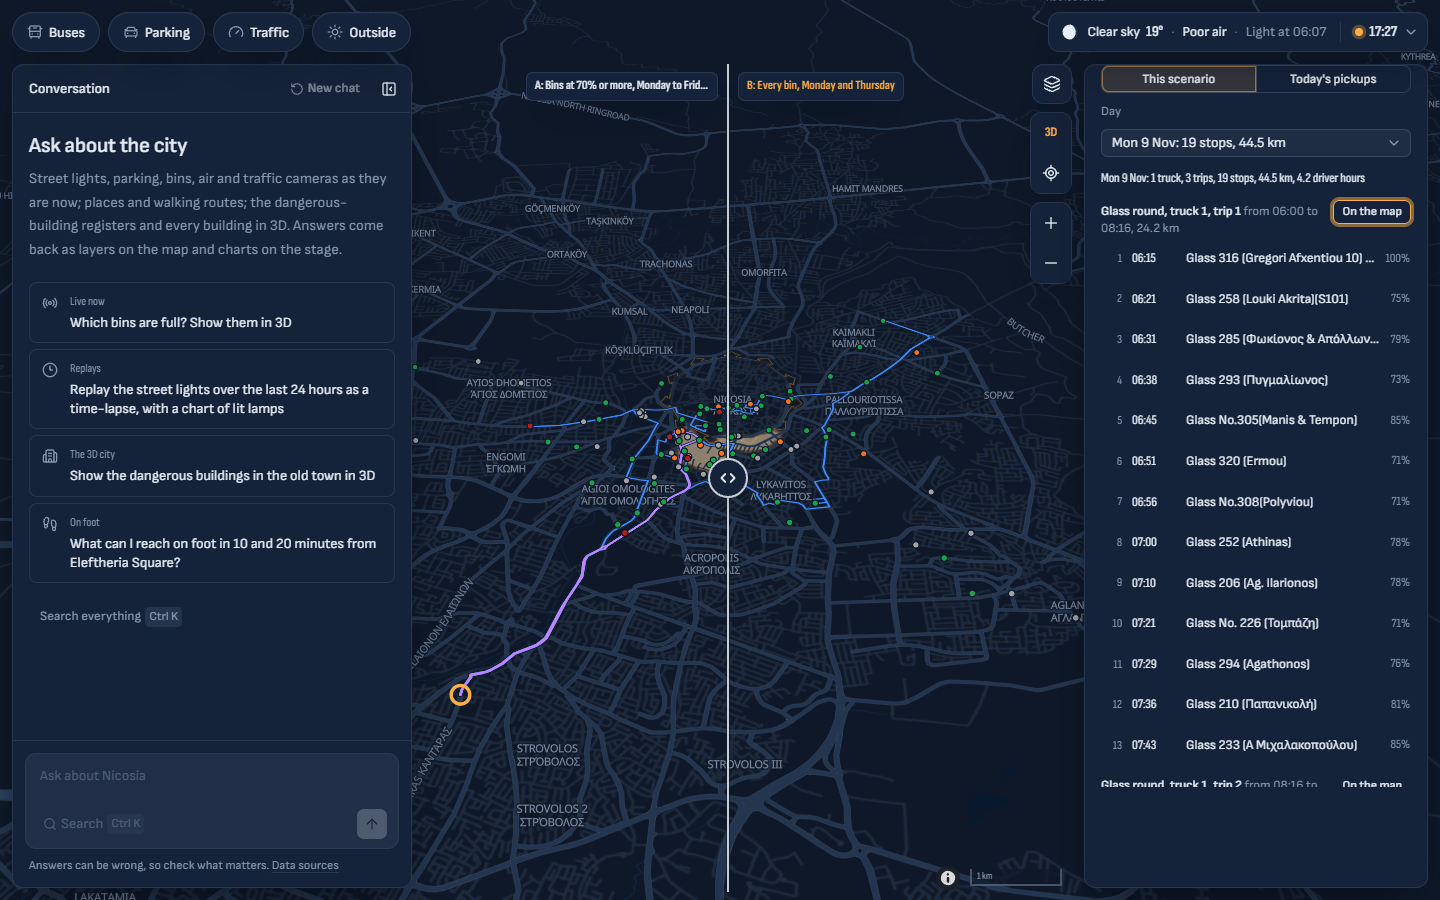
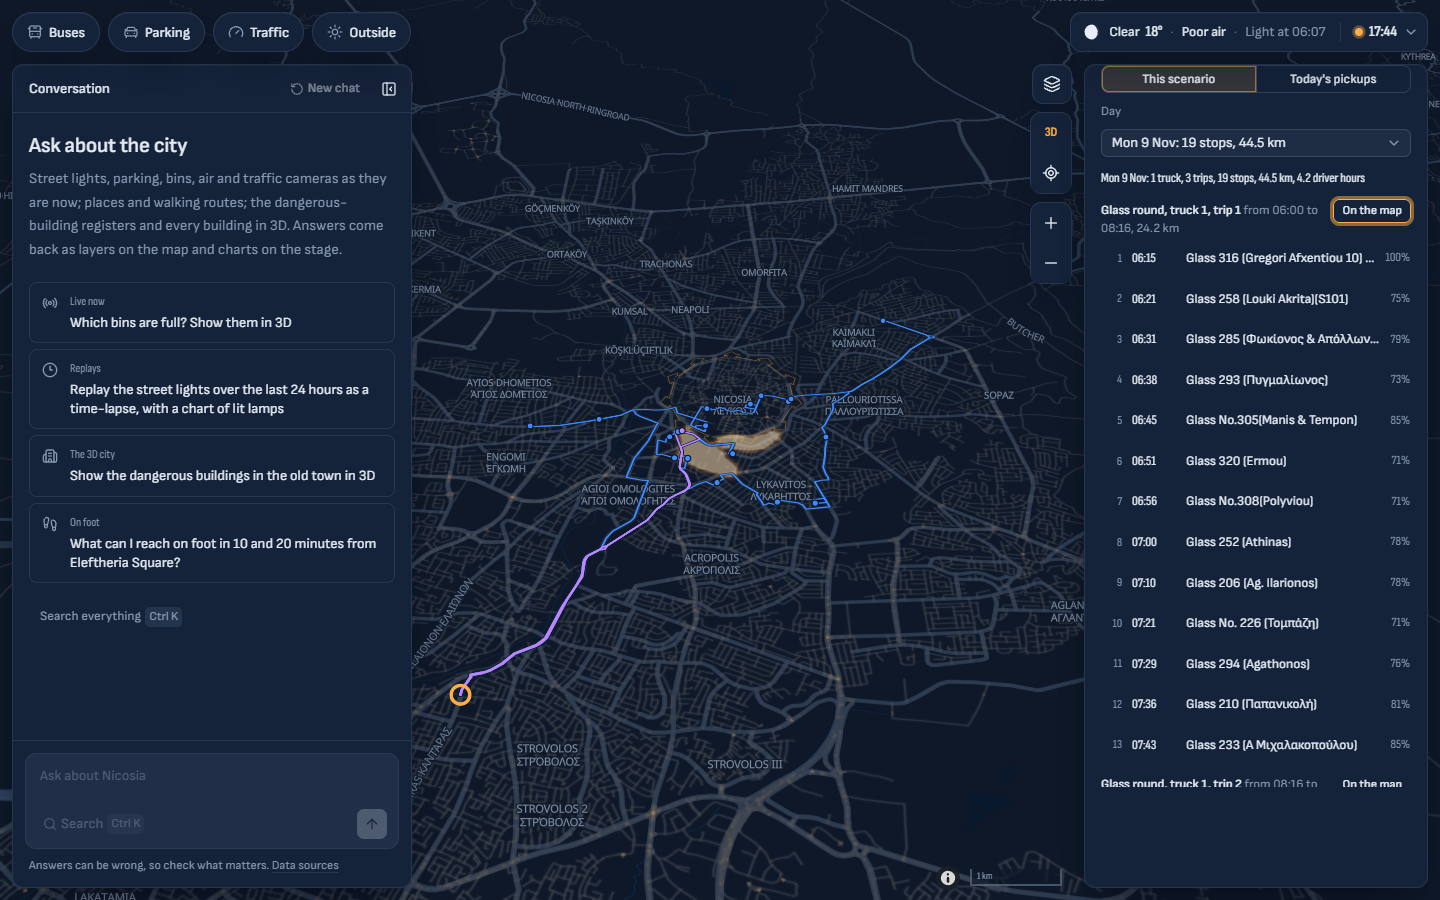
Show the busiest day's rounds as their own map view
The lab now draws an overlay on the run's side of the swipe only, judged by each feature's
first point, and every trip starts at the depot left of the swipe, so the route was hidden
again. The route is now a view of its own in the lab's map toggle: the day's trips on the
roads with their stops numbered in order ('n', as the chat's route style reads them), and a
trip's 'On the map' opens that view and flies to the trip.

diff --git a/chatbot/web/src/components/scenarios/waste-sections.tsx b/chatbot/web/src/components/scenarios/waste-sections.tsx
@@ -11,7 +11,7 @@ import { Field, FieldLabel } from "@/components/ui/field"
 import { Select, SelectContent, SelectItem, SelectTrigger, SelectValue } from "@/components/ui/select"
 import { ToggleGroup, ToggleGroupItem } from "@/components/ui/toggle-group"
 import { registerParamGroups, registerScenarioSection, type ScenarioRun } from "@/lib/registries/scenarios"
-import { flyToScenarioFeature } from "@/lib/scenarios/map"
+import { flyToScenarioFeature, showScenarioLayer } from "@/lib/scenarios/map"
 import { fmtNum } from "@/lib/scenarios/store"
 
 type Stop = { id: string; name: string; eta: string; level: number; load_m3: number }
@@ -93,7 +93,7 @@ function Rounds({ run, compare }: { run: ScenarioRun; compare: ScenarioRun | nul
         <>
           {!drawn && drawnLabel && (
             <p className="text-[12px] text-muted-foreground">
-              The map draws the rounds of {drawnLabel}, the busiest day; a stop here still flies to its bin.
+              The map's rounds view draws {drawnLabel}, the busiest day; a stop here still flies to its bin.
             </p>
           )}
           <DayView day={day} drawn={drawn} />
@@ -120,7 +120,7 @@ function DayView({ day, drawn }: { day: Day; drawn: boolean }) {
             {drawn && (
               <Button variant="ghost" size="xs" className="shrink-0"
                 aria-label={`Show trip ${t.n} on the map`}
-                onClick={() => flyToScenarioFeature(`trip-${day.date}-${t.n}`)}>
+                onClick={() => { showScenarioLayer("route"); flyToScenarioFeature(`trip-${day.date}-${t.n}`) }}>
                 On the map
               </Button>
             )}

diff --git a/tests/test_waste_scenario.py b/tests/test_waste_scenario.py
@@ -394,8 +394,11 @@ def test_a_run_gives_kpis_with_ranges_layers_series_and_a_backtest(tmp_path, off
     assert next(f for f in feats if f["properties"]["id"] == "YW1056")["properties"]["state"] == "never_emptied"
     route = res.layers["route"]
     assert route["meta"]["geometry"] == "route" and route["meta"]["chat"] is True
-    assert route["meta"]["variant"] is None and route["meta"]["show"] is True  # over both sides
-    assert all(f["geometry"]["type"] == "LineString" for f in route["features"])
+    assert route["meta"]["variant"] is None and not route["meta"].get("show")  # a view of its own
+    lines = [f for f in route["features"] if f["geometry"]["type"] == "LineString"]
+    stops = [f for f in route["features"] if f["geometry"]["type"] == "Point"]
+    assert lines and stops and {f["properties"]["id"] for f in stops} <= {f["properties"]["id"] for f in feats}
+    assert all(f["properties"]["stop"] >= 1 for f in stops)
     assert {r["metric"] for r in res.series} >= {"full_hours", "collections", "truck_km", "fill_by_hour"}
     assert {c["metric"] for c in res.charts} == {r["metric"] for r in res.series}
     day = res.details["days"]["scenario"][0]
@@ -424,7 +427,7 @@ def test_finish_draws_the_route_on_the_roads_once_per_run(tmp_path, offline, mon
     ctx = waste_ctx(tmp_path)
     res, params = run(WASTE, ctx, {}, Period.parse("last_30_days", ctx.now()))
     route = res.layers["route"]
-    assert not any(f["properties"]["road"] for f in route["features"])  # offline: straight
+    assert not any(f["properties"].get("road") for f in route["features"])  # offline: straight
     assert route["meta"]["note"].startswith("Straight lines")
     asked = []
 
@@ -437,7 +440,7 @@ def test_finish_draws_the_route_on_the_roads_once_per_run(tmp_path, offline, mon
     f = route["features"][0]
     assert f["properties"]["road"] is True and route["meta"]["note"].startswith("Road lines")
     assert "_stops" not in f["properties"]
-    assert len(asked) == len(route["features"])
+    assert len(asked) == sum(g["geometry"]["type"] == "LineString" for g in route["features"])
 
 
 def test_run_scenario_hands_the_chat_the_route_as_well(tmp_path, offline):
@@ -505,7 +508,8 @@ def test_the_lab_sections_data_links_to_the_map(tmp_path, offline):
     assert all(day["stops"] == res.details["summary"]["bins_modelled"] for day in d["days"]["scenario"])
     drawn = next(x for x in d["days"]["scenario"] if x["date"] == d["route_date"])
     assert drawn["stops"] == max(x["stops"] for x in d["days"]["scenario"])
-    route_ids = {f["properties"]["id"] for f in res.layers["route"]["features"]}
+    route_ids = {f["properties"]["id"] for f in res.layers["route"]["features"]
+                 if f["geometry"]["type"] == "LineString"}
     assert route_ids == {f"trip-{drawn['date']}-{t['n']}" for t in drawn["trips"]}
     hours = [w["full_hours_baseline"] for w in d["watch"]]
     assert hours == sorted(hours, reverse=True) and all(h > 0 for h in hours)

diff --git a/chatbot/scenarios/waste.py b/chatbot/scenarios/waste.py
@@ -443,7 +443,8 @@ class Waste(Scenario):
             f["geometry"]["coordinates"] = line
             f["properties"]["road"] = True
             f["properties"].pop("_stops", None)  # only kept for drawing the road line
-        road = all(f["properties"].get("road") for f in layer["features"])
+        road = all(f["properties"].get("road") for f in layer["features"]
+                   if f["geometry"]["type"] == "LineString")
         layer["meta"]["note"] = ("Road lines from Valhalla's heavy truck profile." if road else
                                  "Straight lines between stops, in the order the truck visits them.")
 
@@ -536,9 +537,19 @@ class Waste(Scenario):
                     "trip": k + 1, "truck": trip.truck + 1, "stops": len(trip.stops),
                     "km": round(trip.drive_km, 1), "road": bool(cached),
                     "order": [s.bin_id for s in trip.stops], "_stops": [list(p) for p in stops]}})
+            for i, s in enumerate(trip.stops, 1):  # the stops, numbered in the order the truck takes
+                b = data.bins[s.bin_id]
+                feats.append({"type": "Feature", "geometry": {"type": "Point", "coordinates": [b.lon, b.lat]},
+                              "properties": {
+                                  "id": s.bin_id, "state": trip.stream,
+                                  "color": ROUTE_COLORS.get(trip.stream, "#3d8bff"),
+                                  "label": f"Trip {k + 1}, stop {i} at {_hm(start * 60 + s.eta_min)}: {b.name}",
+                                  "trip": k + 1, "stop": i, "n": i, "level": round(s.level)}})
         used = dict.fromkeys(f["properties"]["state"] for f in feats)
+        # A view of its own (no variant, no switch): every trip leaves from the depot, so split by
+        # the swipe it would fall on one side; drawn alone it shows the whole day's rounds.
         return {"type": "FeatureCollection", "features": feats,
-                "meta": {"title": f"This scenario's rounds on {t:%a} {t.day} {t:%b}", "variant": None, "show": True,
+                "meta": {"title": f"This scenario's rounds on {t:%a} {t.day} {t:%b}", "variant": None,
                          "geometry": "route", "chat": True,
                          "legend": {s: ROUTE_COLORS[s] for s in used if s in ROUTE_COLORS},
                          "legend_labels": {s: ROUTE_LABELS[s] for s in used if s in ROUTE_LABELS},
